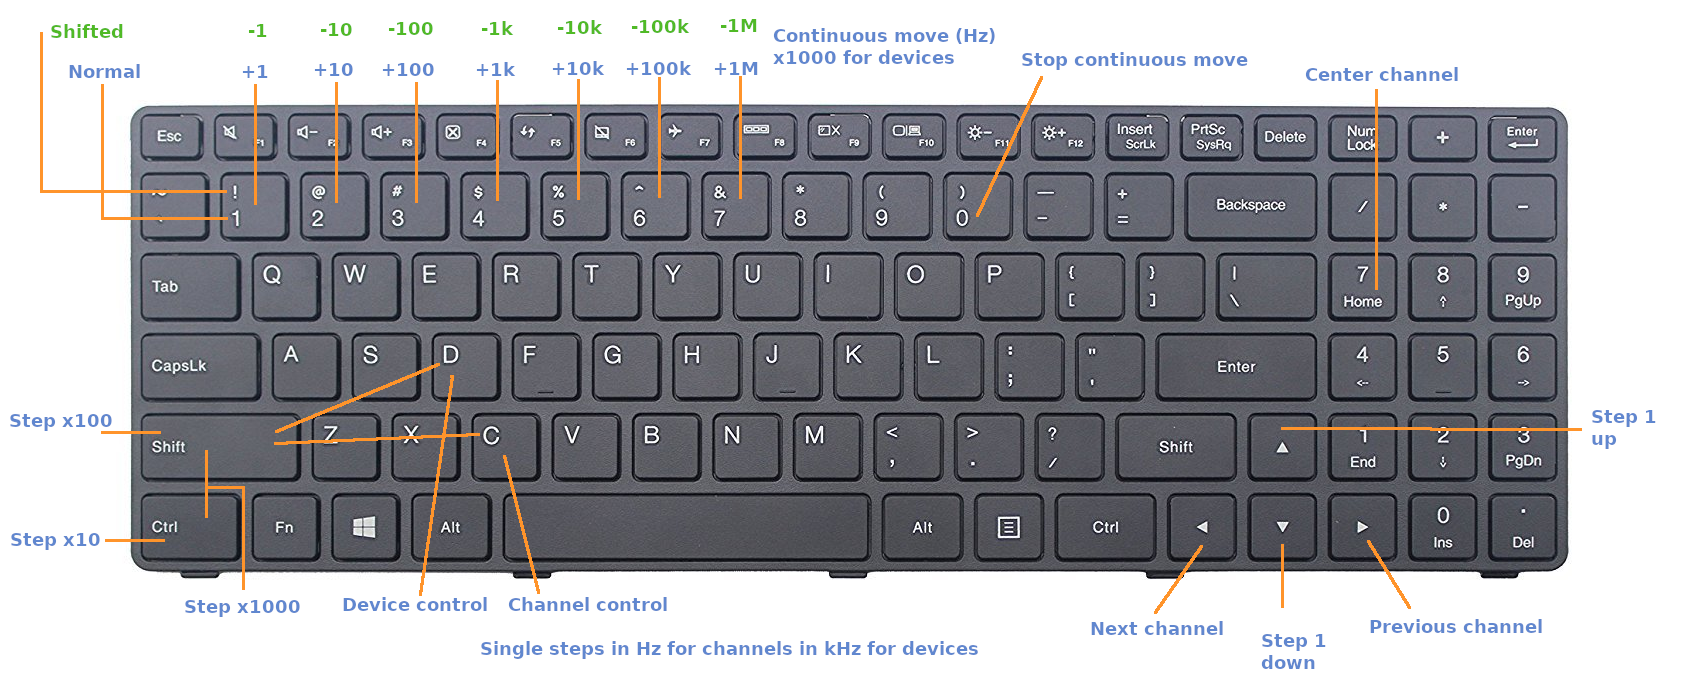
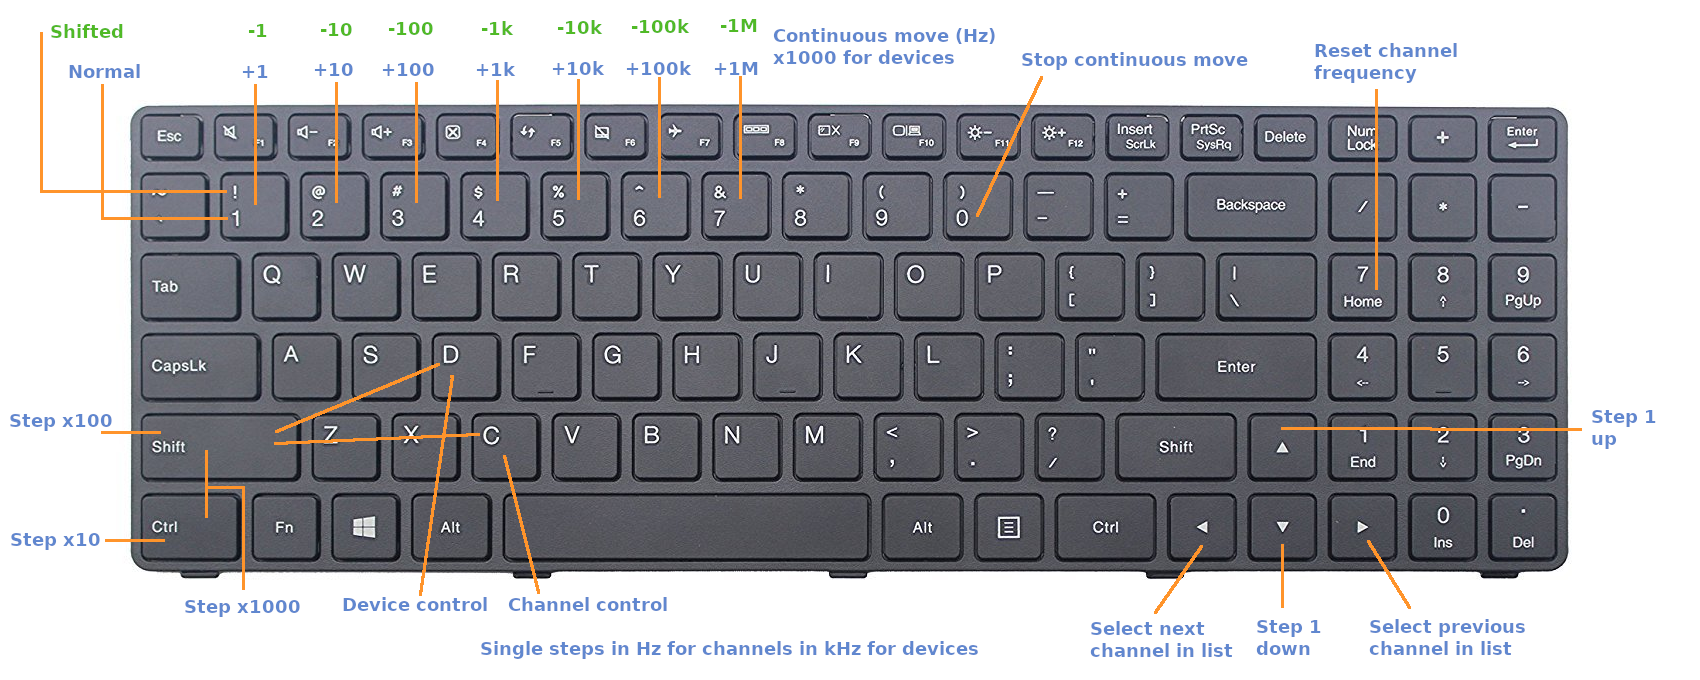
Jogdial Controller: updated readme

Changed region(s): [[0.6235, 0.8956, 0.7794, 0.9882], [0.8106, 0.8956, 0.9041, 0.9882], [0.7482, 0.0618, 0.8729, 0.1235]]

diff --git a/plugins/feature/jogdialcontroller/readme.md b/plugins/feature/jogdialcontroller/readme.md
@@ -85,7 +85,7 @@ The **keys** are mapped as follows:
 
   - K5: Select device control
   - K6: Move down through the list of available channels
-  - K7: Center the channel (set its frequency to 0) - useful when you loose the channel out of the baseband window
+  - K7: Reset the channel frequency (set to 0) - useful when you loose the channel out of the baseband window
   - K8: Move up through the list of available channels
   - K9: Select channel control
 
@@ -118,19 +118,19 @@ The shuttle devices controls are mapped according to the following table. K5 to 
     <td>K6</td>
     <td>&larr;</td>
     <td>&larr;</td>
-    <td>Previous channel</td>
+    <td>Select previous channel in list</td>
   <tr>
   <tr>
     <td>K7</td>
     <td>Home</td>
     <td>Home</td>
-    <td>Center channel</td>
+    <td>Reset channel frequency (set to 0)</td>
   <tr>
   <tr>
     <td>K8</td>
     <td>&rarr;</td>
     <td>&rarr;</td>
-    <td>Next channel</td>
+    <td>Select next channel in list</td>
   <tr>
   <tr>
     <td>K9</td>
